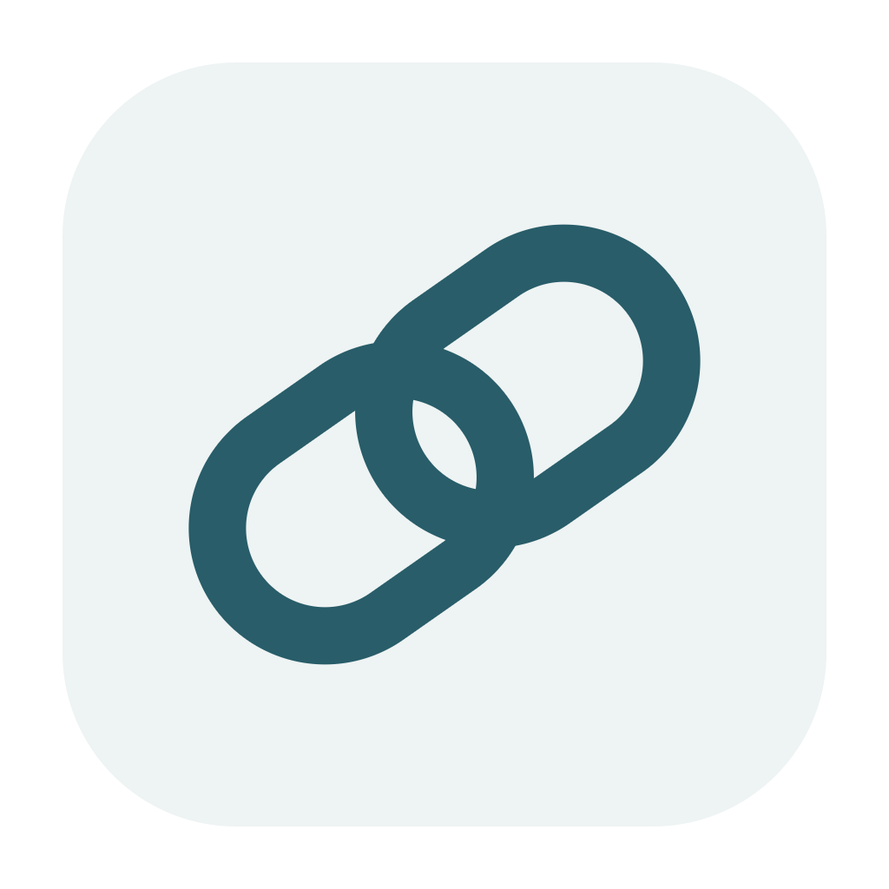
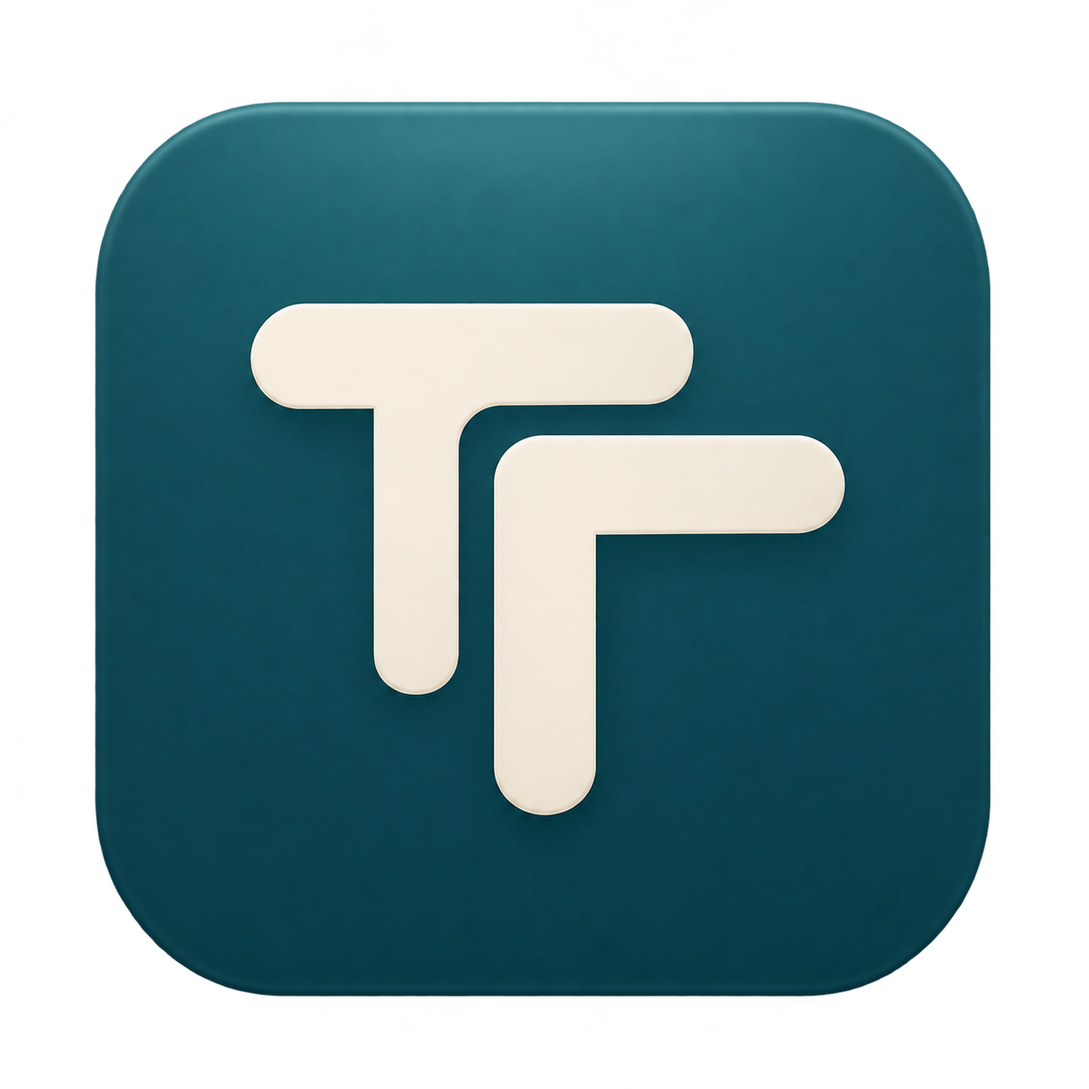
Add Tandem brand identity and resizable preview pane

diff --git a/src/App.tsx b/src/App.tsx
@@ -1,4 +1,6 @@
 import { useEffect, useRef, useState } from 'react';
+import type { CSSProperties } from 'react';
+import { usePanelResize } from './usePanelResize';
 import Markdown from 'react-markdown';
 import remarkGfm from 'remark-gfm';
 import { ArrowUp, ArrowLeft, ArrowRight, Check, ChevronDown, ChevronRight, CircleStop, Code2, Copy, Download, FileCode2, FileText, Folder, FolderOpen, GitCompareArrows, Globe, Link2, LoaderCircle, MessageSquare, PanelRight, Plus, RefreshCw, Search, Settings2, Terminal, Trash2, X } from 'lucide-react';
@@ -7,7 +9,8 @@ const initial: State = { conversations: [], workspace: '', settings: { web: true
 const api = window.tandem;
 const nameOf = (path: string) => path.split('/').filter(Boolean).at(-1) || 'No folder selected';
 const markdown = (text: string) => <Markdown remarkPlugins={[remarkGfm]} components={{ a: props => <a {...props} target="_blank" rel="noreferrer" />, img: () => <span>[Remote image omitted]</span> }}>{text}</Markdown>;
-function Mark({ small = false }: { small?: boolean }) { return <span className={`mark ${small ? 'small' : ''}`} aria-hidden="true"><Link2 /></span>; }
+const brandMark = new URL('../assets/logo.svg', import.meta.url).href;
+function Mark({ small = false }: { small?: boolean }) { return <span className={`mark ${small ? 'small' : ''}`} aria-hidden="true"><img src={brandMark} alt="" /></span>; }
 function StageList({ stages }: { stages: Stage[] }) { return <div className="stages">{stages.map((s, i) => <details key={`${s.provider}-${s.stage}-${i}`}><summary><span className={`stage-icon ${s.status}`}>{s.status === 'running' ? <LoaderCircle className="spin" /> : s.status === 'error' ? <X /> : <Check />}</span><span className="provider">{s.provider === 'claude' ? 'Claude' : 'Codex'}</span><span>{s.stage}</span><ChevronDown /></summary>{s.text && <div className="stage-content prose">{markdown(s.text)}</div>}</details>)}</div>; }
 export default function App() {
  const [state, setState] = useState<State>(initial);
@@ -20,6 +23,7 @@ export default function App() {
  const [connections, setConnections] = useState(false);
  const [error, setError] = useState('');
  const [notice, setNotice] = useState('');
+ const preview = usePanelResize();
  const [panel, setPanel] = useState<'files' | 'changes' | 'report' | 'terminal' | null>(window.innerWidth < 1000 ? null : 'files');
  const [entries, setEntries] = useState<Entry[]>([]);
  const [directory, setDirectory] = useState('.');
@@ -79,7 +83,7 @@ export default function App() {
    <div className="sidebar-bottom"><button onClick={chooseFolder} disabled={busy}><FolderOpen /><span>{state.workspace ? nameOf(state.workspace) : 'Open a workspace'}<small>{state.workspace ? 'Local folder' : 'Files, code & reports'}</small></span><ChevronRight /></button><button onClick={() => setConnections(true)}><Settings2 /><span>Connections</span><span className="connection-count">{activeCount}/2</span></button><div className="local-caption"><span className="dot" />MCP transport · Local history</div></div>
   </aside>
   <header className="topbar"><button className="mobile-menu" aria-label="Toggle conversations" onClick={() => setNavOpen(!navOpen)}><MessageSquare /></button><span>Workspace</span><ChevronRight /><strong>{nameOf(state.workspace)}</strong><div className="top-actions"><button onClick={() => setConnections(true)}><span className={`dot ${activeCount === 2 ? 'connected' : ''}`} />{api ? `${activeCount} agents installed` : 'Browser preview'}</button><button title="Toggle workspace panel" aria-label="Toggle workspace panel" onClick={() => setPanel(panel ? null : 'files')}><PanelRight /></button></div></header>
-  <main className={`sheet ${panel ? 'with-panel' : ''}`}>
+  <main ref={preview.containerRef} className={`sheet ${panel ? 'with-panel' : ''} ${preview.resizing ? 'resizing-panel' : ''}`} style={{ '--preview-width': `${preview.width}px` } as CSSProperties}>
    <section className="conversation"><div className="conversation-heading"><h1>{chat?.title || 'New conversation'}</h1><span>Claude + Codex</span></div>
     <div className="message-scroll">
      {!chat?.messages.length && <div className="welcome"><Mark /><h2>Two perspectives.<br />One place to work.</h2><p>Think with Claude and Codex, then turn the answer into something real.</p><div className="agent-pair"><span><span className="agent-symbol">C</span>Claude</span><Link2 /><span><span className="agent-symbol">⌘</span>Codex</span></div><div className="suggestions">{[{ icon: Code2, title: 'Build something', text: 'Explore this workspace and propose a practical implementation plan for my app.' },{ icon: Search, title: 'Research a question', text: 'Research the latest developments in local AI coding tools. Compare approaches and include source links.' },{ icon: FileText, title: 'Write a report', text: 'Review this workspace and write a clear Markdown report covering its purpose, architecture, and next steps.' }].map(({ icon: Icon, title, text }) => <button key={title} onClick={() => { setPrompt(text); composer.current?.focus(); }}><Icon /><span>{title}</span><ArrowRight /></button>)}</div><p className="welcome-foot">Start with a trusted folder. Your agents work in its context.</p></div>}
@@ -91,7 +95,7 @@ export default function App() {
      <div className="composer-footer"><label><input type="checkbox" checked={state.settings.write} disabled={busy} onChange={e => void updateSetting({ write: e.target.checked })} />Allow workspace changes</label><span>{state.settings.mode === 'deep' ? 'Independent answers → review → revision → synthesis' : 'Independent answers → unified response'}</span></div>
     </div>
    </section>
-   {panel && <aside className="workspace-panel"><div className="panel-tabs">{([{ id: 'files', icon: Folder, label: 'Files' }, { id: 'changes', icon: GitCompareArrows, label: 'Changes' }, { id: 'report', icon: FileText, label: 'Report' }, { id: 'terminal', icon: Terminal, label: 'Terminal' }] as const).map(({ id, icon: Icon, label }) => <button key={id} className={panel === id ? 'active' : ''} title={label} aria-label={label} onClick={() => { setPanel(id); if (id === 'changes') void refreshDiff(); }}><Icon /><span>{label}</span></button>)}</div>
+   {panel && <aside id="workspace-panel" className="workspace-panel"><div className="panel-resizer" {...preview.handleProps}><span /></div><div className="panel-tabs">{([{ id: 'files', icon: Folder, label: 'Files' }, { id: 'changes', icon: GitCompareArrows, label: 'Changes' }, { id: 'report', icon: FileText, label: 'Report' }, { id: 'terminal', icon: Terminal, label: 'Terminal' }] as const).map(({ id, icon: Icon, label }) => <button key={id} className={panel === id ? 'active' : ''} title={label} aria-label={label} onClick={() => { setPanel(id); if (id === 'changes') void refreshDiff(); }}><Icon /><span>{label}</span></button>)}</div>
     {panel === 'files' && <><div className="panel-heading"><span>{file || (directory === '.' ? 'Workspace files' : directory)}</span><button aria-label="Refresh files" disabled={!state.workspace} onClick={() => void loadFiles()}><RefreshCw /></button></div>{!state.workspace ? <div className="panel-empty"><FolderOpen /><h3>Your workspace, connected.</h3><p>Open a folder to browse files, edit code, and inspect what the agents change.</p><button className="secondary" onClick={chooseFolder}>Open folder<ArrowRight /></button></div> : file ? <div className="editor-wrap"><div className="editor-toolbar"><button onClick={() => { if (!dirty || window.confirm('Discard unsaved changes?')) setFile(''); }}><ArrowLeft />Files</button><span>{dirty ? 'Unsaved' : 'Saved'}</span><button disabled={!dirty || busy || toolBusy} onClick={saveFile}>Save</button></div><textarea className="editor" aria-label={`Edit ${file}`} value={editing} spellCheck={false} onChange={e => setEditing(e.target.value)} /></div> : <div className="file-list">{directory !== '.' && <button onClick={() => void loadFiles(directory.split('/').slice(0,-1).join('/') || '.')}><ArrowLeft />Parent folder</button>}{entries.map(entry => <button key={entry.path} onClick={() => void openEntry(entry)}>{entry.directory ? <Folder /> : <FileCode2 />}<span>{entry.name}</span>{entry.directory && <ChevronRight />}</button>)}{!entries.length && <p className="muted">This folder is empty.</p>}<button className="reveal" onClick={() => void api?.reveal()}><FolderOpen />Show in Finder</button></div>}</>}
     {panel === 'changes' && <><div className="panel-heading"><span>Working tree</span><button aria-label="Refresh changes" onClick={refreshDiff}><RefreshCw /></button></div><div className="changes-body">{gitStatus && <pre className="git-status">{gitStatus}</pre>}{diff ? <pre className="diff">{diff.split('\n').map((line,i) => <div key={i} className={line.startsWith('+') ? 'added' : line.startsWith('-') ? 'removed' : line.startsWith('@@') ? 'hunk' : ''}>{line || ' '}</div>)}</pre> : <div className="panel-empty"><GitCompareArrows /><h3>Changes will appear here.</h3><p>Tracked changes are compared with Git HEAD. Untracked files appear in the file status above.</p></div>}</div></>}
     {panel === 'report' && <><div className="panel-heading"><span>Report preview</span><button disabled={!report || !api} onClick={exportPdf}><Download />PDF</button></div>{report ? <div className="report prose">{markdown(report)}</div> : <div className="panel-empty"><FileText /><h3>From answer to artifact.</h3><p>Preview any response as a report, then export a formatted PDF to your Mac.</p></div>}</>}

diff --git a/src/usePanelResize.ts b/src/usePanelResize.ts
@@ -1,0 +1,57 @@
+import { useEffect, useRef, useState } from 'react';
+import type { KeyboardEvent, PointerEvent } from 'react';
+
+const KEY = 'tandem.previewWidth';
+const DEFAULT_WIDTH = 400;
+const clamp = (value: number, min: number, max: number) => Math.min(max, Math.max(min, value));
+
+export function usePanelResize() {
+ const containerRef = useRef<HTMLElement>(null);
+ const [preferredWidth, setPreferredWidth] = useState(() => {
+  try { const saved = Number(localStorage.getItem(KEY)); return Number.isFinite(saved) && saved >= 300 ? saved : DEFAULT_WIDTH; }
+  catch { return DEFAULT_WIDTH; }
+ });
+ const preferredRef = useRef(preferredWidth);
+ const [size, setSize] = useState({ container: 0, viewport: window.innerWidth });
+ const [resizing, setResizing] = useState(false);
+ const drag = useRef<{ x: number; width: number } | null>(null);
+ useEffect(() => {
+  const element = containerRef.current;
+  if (!element) return;
+  const measure = () => setSize({ container: element.clientWidth, viewport: window.innerWidth });
+  const observer = new ResizeObserver(measure);
+  observer.observe(element); window.addEventListener('resize', measure); measure();
+  return () => { observer.disconnect(); window.removeEventListener('resize', measure); };
+ }, []);
+ const max = size.viewport > 1000 ? Math.max(300, size.container - 420) : Math.max(300, size.viewport - 32);
+ const width = Math.round(clamp(preferredWidth, 300, max));
+ const update = (next: number) => { const bounded = Math.round(clamp(next, 300, max)); preferredRef.current = bounded; setPreferredWidth(bounded); };
+ const save = () => { try { localStorage.setItem(KEY, String(preferredRef.current)); } catch { /* Storage may be disabled. Resizing still works. */ } };
+ const finish = () => { if (drag.current) { drag.current = null; setResizing(false); save(); } };
+ const reset = () => { update(DEFAULT_WIDTH); save(); };
+ return {
+  containerRef, width, resizing,
+  handleProps: {
+   role: 'separator', tabIndex: 0,
+   'aria-label': 'Resize preview pane', 'aria-orientation': 'vertical' as const,
+   'aria-valuemin': 300, 'aria-valuemax': Math.round(max), 'aria-valuenow': width,
+   'aria-valuetext': `${width} pixels`, 'aria-controls': 'workspace-panel',
+   title: 'Drag to resize · Double-click to reset · Arrow keys to adjust',
+   onDoubleClick: reset,
+   onPointerDown: (event: PointerEvent<HTMLDivElement>) => {
+    if (event.button !== 0) return;
+    event.preventDefault(); event.currentTarget.focus();
+    event.currentTarget.setPointerCapture(event.pointerId);
+    drag.current = { x: event.clientX, width }; setResizing(true);
+   },
+   onPointerMove: (event: PointerEvent<HTMLDivElement>) => { if (drag.current) update(drag.current.width + drag.current.x - event.clientX); },
+   onPointerUp: (event: PointerEvent<HTMLDivElement>) => { finish(); if (event.currentTarget.hasPointerCapture(event.pointerId)) event.currentTarget.releasePointerCapture(event.pointerId); },
+   onPointerCancel: finish, onLostPointerCapture: finish,
+   onKeyDown: (event: KeyboardEvent<HTMLDivElement>) => {
+    const step = event.shiftKey ? 48 : 16;
+    const next = event.key === 'ArrowLeft' ? width + step : event.key === 'ArrowRight' ? width - step : event.key === 'Home' ? 300 : event.key === 'End' ? max : event.key === 'Enter' ? DEFAULT_WIDTH : null;
+    if (next !== null) { event.preventDefault(); update(next); save(); }
+   }
+  }
+ };
+}

diff --git a/tests/ui/app.spec.ts b/tests/ui/app.spec.ts
@@ -20,3 +20,37 @@ for (const width of [1440,1024,390]) test(`layout ${width}`,async ({page}) => {
  expect(overflow).toBe(false);
  await page.screenshot({path:`test-results/tandem-${width}.png`,fullPage:true});
 });
+
+test('preview drag, keyboard resize, reset and saved width', async ({page}) => {
+ await page.setViewportSize({width:1440,height:900}); await page.goto('/');
+ const handle = page.getByRole('separator',{name:'Resize preview pane'});
+ const pane = page.locator('#workspace-panel');
+ const initial = (await pane.boundingBox())!.width;
+ const box = (await handle.boundingBox())!;
+ await page.mouse.move(box.x+box.width/2,box.y+box.height/2);
+ await page.mouse.down(); await page.mouse.move(box.x-150,box.y+box.height/2,{steps:8}); await page.mouse.up();
+ const expanded = (await pane.boundingBox())!.width;
+ expect(expanded).toBeGreaterThan(initial+140);
+ await page.reload(); await expect(handle).toHaveAttribute('aria-valuenow',String(Math.round(expanded)));
+ await handle.focus(); await page.keyboard.press('ArrowRight');
+ await expect(handle).toHaveAttribute('aria-valuenow',String(Math.round(expanded)-16));
+ await page.keyboard.press('End');
+ expect((await page.locator('.conversation').boundingBox())!.width).toBeGreaterThanOrEqual(419);
+ await handle.dblclick(); await expect(handle).toHaveAttribute('aria-valuenow','400');
+ await page.getByRole('button',{name:'Report',exact:true}).click();
+ await expect(handle).toBeVisible();
+ await page.getByRole('button',{name:'Toggle workspace panel'}).click(); await expect(handle).toHaveCount(0);
+ await page.getByRole('button',{name:'Toggle workspace panel'}).click(); await expect(handle).toHaveAttribute('aria-valuenow','400');
+});
+
+test('preview adapts when the window narrows without discarding preferred width',async({page})=>{
+ await page.setViewportSize({width:1440,height:900}); await page.goto('/');
+ const handle=page.getByRole('separator',{name:'Resize preview pane'});
+ await handle.focus(); await page.keyboard.press('End');
+ const preferred=await handle.getAttribute('aria-valuenow');
+ await page.setViewportSize({width:1024,height:768});
+ expect((await page.locator('.conversation').boundingBox())!.width).toBeGreaterThanOrEqual(419);
+ await page.setViewportSize({width:390,height:844}); await expect(handle).toBeHidden();
+ expect(await page.evaluate(()=>document.documentElement.scrollWidth>innerWidth)).toBe(false);
+ await page.setViewportSize({width:1440,height:900}); await expect(handle).toHaveAttribute('aria-valuenow',preferred!);
+});

diff --git a/src/style.css b/src/style.css
@@ -2,3 +2,17 @@
 
 /* Primary labels stay readable; 11px is reserved for supporting metadata. */
 .search input,.history-empty,.history-row>button:first-child,.section-label,.panel-heading,.panel-tabs button,.panel-empty p,.file-list>button,.secondary,.agent-pair>span{font-size:13px}.mode-control button,.tool-toggle,.topbar button{font-size:12px}
+
+/* The preview keeps its preferred width, clamped to leave room for the chat. */
+.sheet.with-panel{grid-template-columns:minmax(420px,1fr) min(var(--preview-width,400px),calc(100% - 420px))}
+.workspace-panel{position:relative;overflow:visible}
+.panel-resizer{position:absolute;z-index:4;left:-5px;top:0;bottom:0;width:10px;cursor:col-resize;touch-action:none;outline:none;display:flex;align-items:center;justify-content:center}
+.panel-resizer::before{content:"";position:absolute;width:2px;top:0;bottom:0;background:transparent}
+.panel-resizer>span{width:3px;height:36px;border-radius:3px;background:#bdcacc}
+.panel-resizer:hover::before,.panel-resizer:focus-visible::before,.resizing-panel .panel-resizer::before{background:#1b6c80}
+.panel-resizer:hover>span,.panel-resizer:focus-visible>span{background:#1b6c80}
+.resizing-panel,.resizing-panel *{cursor:col-resize!important;user-select:none!important}
+@media(max-width:1000px){.sheet.with-panel{grid-template-columns:minmax(0,1fr)}.workspace-panel{position:absolute;width:var(--preview-width,400px);max-width:calc(100vw - 32px)}}
+@media(max-width:700px){.workspace-panel{width:auto;max-width:none}.panel-resizer{display:none}}
+
+.mark img{display:block;width:44px;height:44px}.mark.small img{width:27px;height:27px}.assistant-label .mark img{width:22px;height:22px}

diff --git a/docs/roadmap.md b/docs/roadmap.md
@@ -1,0 +1,90 @@
+# Tandem: proposed product roadmap
+
+Research date: 26 November 2026. These are recommendations for future development, not implemented features or a delivery commitment. Branding and the resizable preview are shipped separately from this proposal.
+
+Tandem's strongest direction is a workspace where specialist agents produce a reviewable result. The next step should make work easier to inspect and control before increasing the number of agents.
+
+## What comparable open-source projects do well
+
+| Project | Useful pattern | Application to Tandem |
+| --- | --- | --- |
+| [Cline: Plan & Act](https://docs.cline.bot/core-workflows/plan-and-act) | Separates exploration and planning from execution. | A real Plan mode, with an editable implementation plan and explicit transition to Build. |
+| [Cline: checkpoints](https://docs.cline.bot/core-workflows/checkpoints) | Project snapshots and compare/restore controls make changes reversible. | A pre-run baseline and a per-run diff; restore only the files the user selects. |
+| [OpenCode: agents](https://opencode.ai/docs/agents/) | Named agent profiles combine prompts, model preferences, and permissions. | Reusable Planner, Implementer, Reviewer, and Tester profiles with clear capabilities. |
+| [Aider: architect mode](https://aider.chat/docs/usage/modes.html) | Splits solution design from concrete edits using architect and editor roles. | Assign roles deliberately rather than asking every agent to repeat the whole task. |
+| [Conduct](https://github.com/ldlac/conduct) | Runs coding agents in separate Git worktrees and persists workspace state. | Give every parallel writer its own branch, files, run record, and review flow. |
+
+These patterns are described by the projects themselves. The priorities and implementation choices below are Tandem-specific recommendations. They are not claims that extra agents always improve outcomes.
+
+## Three independent controls
+
+Do not overload the current Normal/Deep toggle with every workflow choice.
+
+| Control | Options | Meaning |
+| --- | --- | --- |
+| Work mode | Ask / Plan / Build | What the task is allowed to do. |
+| Agent setup | Solo / Pair / Team | Which agents participate and how roles are assigned. |
+| Review depth | Standard / Deep | Whether to add a bounded critique-and-revision pass. |
+
+Examples: **Plan + Pair + Deep** for architecture; **Build + Solo + Standard** for a small fix; **Build + Team + Deep** for independent implementation tasks that merit a final review.
+
+Plan mode should produce a versioned artifact with scope, assumptions, affected files, ordered tasks, dependencies, and acceptance checks. A user can edit it and choose Build against that plan version. A revised plan must remain visible. Restrict tools and runtime permissions, not just the prompt. Audit the adapters' capabilities first: a read-only filesystem sandbox does not automatically forbid every command or external side effect.
+
+## Recommended order
+
+### 1. Run visibility and Plan mode
+
+Create an explicit run record and show activity from each provider: queued, starting, running, awaiting approval, completed, failed, cancelled, or interrupted. Preserve outcomes after a restart and offer deliberate retry rather than silently replaying writes. Expose output as it arrives where the CLI supports it, without inventing token or cost counters when it does not.
+
+Add the plan artifact and Ask/Plan/Build permissions. Acceptance: a Plan run cannot modify the workspace; the user can inspect and edit its plan before execution; each task has a concrete completion check.
+
+### 2. Reviewable, reversible changes
+
+Capture the starting state, including pre-existing uncommitted edits. Show the diff for this run, not just the repository's entire diff against HEAD. Add selected-file restore, test results, and an explicit Apply action for changes produced in isolated workspaces.
+
+Snapshots must protect the user's unrelated edits and define how untracked files, ignored files, secrets, and large files are treated. A file rollback cannot undo database writes, network requests, or every shell-command side effect. Avoid presenting it as universal undo.
+
+### 3. Role-based agent teams
+
+Start with a small team, for example:
+
+| Agent | Provider | Role | Write access |
+| --- | --- | --- | --- |
+| Planner | Claude | Decompose the request and define acceptance checks. | No |
+| Code scout | Codex | Locate relevant code and constraints. | No |
+| Implementer | Codex | Execute the approved task. | Own isolated workspace |
+| Reviewer | Claude | Review the actual diff and evidence. | No |
+| Integrator | Coordinator | Present results and apply reviewed changes. | Controlled integration only |
+
+Roles should be configurable. Either provider may fill any role if its adapter supports the necessary permissions; this example is not a fixed claim about which provider is better.
+
+### 4. Multiple agents per provider
+
+Yes—support **Claude ×2 + Codex ×2**, and allow other mixes. Each agent needs its own ID, prompt/context, task, process/session, cancellation handle, result, and visible status. The provider is a property of an agent, not its identity.
+
+Begin with parallel read-only investigation. Then add parallel writers in distinct Git worktrees. Do not let two writers share one checkout. Worktrees isolate files and branches, not credentials, databases, ports, or all processes: add setup/cleanup hooks and per-workspace port allocation, and keep sandbox permissions separate.
+
+An example team can investigate UI and backend independently, implement each in its own worktree after agreeing an interface, then hand both diffs to a reviewer. Integrate sequentially and run tests on the combined result. If work overlaps, serialize it or ask for a conflict decision; do not blindly merge competing edits.
+
+Use bounded scheduling: an initial limit of two concurrent agents per provider and four total, configurable round/call limits, task timeouts, queueing, and provider-specific backoff. Multiple processes on one login do not create extra provider quota. More agents can add duplicated work, correlated mistakes, latency, and integration overhead; prefer Solo or Pair for small tasks.
+
+### 5. Context and workflow polish
+
+Add pinned files, explicit attachments, per-project instructions, context summaries, citations that stay linked to sources, named agent presets, and a configurable MCP-server registry. Then improve GitHub issue/PR handoff, signing/notarization, and application updates. Keep external publication and destructive actions explicit.
+
+## Changes needed in the current code
+
+- `electron/main.cjs`: replace the global single `active` task with a run registry and bounded scheduler. Persist runs separately from chat messages.
+- `electron/orchestrator.mjs`: evolve the fixed pipeline into typed tasks with roles, dependencies, and a configurable roster. Preserve the single-writer rule within each workspace.
+- `mcp/server.mjs`: introduce agent IDs, capability discovery, permission profiles, model selection where supported, and structured lifecycle results. Agent and workspace actions must continue to cross MCP.
+- `src/types.ts`: identify events by `runId`, `agentId`, and `stageId`. The current provider-plus-stage key would collide when two Claude agents perform the same stage.
+- UI: a compact team panel should show each agent's assignment, status, output, and diff, plus run-level cancellation and retry controls.
+- Storage: introduce schema versions and a migration path for persisted runs/plans. SQLite is an option when concurrent updates and recovery outgrow the current atomic JSON history.
+
+The local orchestration service owns scheduling; MCP remains the interface to agent and workspace capabilities. MCP by itself does not provide a multi-agent scheduler. Consider asynchronous run tools and progress notifications for long tasks instead of relying on a single very long tool request.
+
+## How to decide whether teams are worth it
+
+Build a small repeatable evaluation set: a bug fix, a contained feature, a cross-layer feature, a refactor, and a research report. Compare Solo, Pair, and Team on tests passed, actual defects, manual corrections, elapsed time, provider calls, and merge conflicts. Use measured usage when available; label estimates clearly. Ship the smallest agent setup that reliably improves the result.
+
+**Recommended next milestone:** explicit Plan mode, observable runs, and per-run change review. Follow that with isolated team execution. An agent-count slider alone would add complexity before adding enough control.

diff --git a/README.md b/README.md
@@ -1,6 +1,8 @@
 <div align="center">
-  <img src="assets/icon.svg" width="96" alt="Tandem icon" />
-  <h1>Tandem</h1>
+  <picture>
+    <source media="(prefers-color-scheme: dark)" srcset="assets/wordmark-dark.svg" />
+    <img src="assets/wordmark.svg" width="360" alt="Tandem" />
+  </picture>
   <p><strong>Claude and Codex. One local workspace.</strong></p>
   <p>A macOS agent chat app that brings two perspectives together through MCP.</p>
   <p><a href="#quick-start">Quick start</a> · <a href="#how-the-modes-work">Reasoning modes</a> · <a href="#architecture">Architecture</a> · <a href="CONTRIBUTING.md">Contributing</a></p>
@@ -22,7 +24,7 @@ The app runs on your Mac, keeps its own chat history locally, and connects to th
 - **Work in a folder.** Browse files, edit text, inspect Git diffs, and let Codex implement requested changes.
 - **Run local commands.** Review the exact command in a native confirmation dialog before execution.
 - **Search the web.** Enable the agents' native web-search capabilities through their MCP adapters.
-- **Create reports.** Preview Markdown responses and export formatted A4 PDFs.
+- **Create reports.** Preview Markdown responses and export formatted A4 PDFs. Drag the preview divider to resize the pane; its width is remembered.
 - **Pick up where you left off.** Search and reopen conversations stored on your Mac.
 
 ## Quick start
@@ -103,6 +105,8 @@ Independent answers run concurrently. The remaining phases run in order. Synthes
 The file tools resolve paths and reject traversal or symlinks outside the selected workspace. The editor also protects `.git`, `.aws`, and `.ssh` subdirectories from direct saves.
 
 Explicit Terminal commands run with your Mac user permissions after confirmation. The selected folder is their working directory, **not an operating-system sandbox**. Codex's agent execution pass uses the CLI's workspace sandbox; it does not use a sandbox-bypass flag.
+
+Resize the workspace/preview pane by dragging its left divider. Double-click it to reset; focus it and use **Left/Right arrows** to adjust, **Shift** for larger steps, **Home/End** for the limits, or **Enter** to reset. The chat retains a minimum usable width. On phone-sized windows, the pane fills the screen.
 
 Keyboard shortcuts: **⌘N** for a new conversation, **Enter** to send, and **Shift+Enter** for a newline.
 
@@ -227,6 +231,12 @@ Native smoke tests use temporary histories and workspaces. CI runs the build and
 - Reports export to PDF; arbitrary PDF attachments are not parsed.
 - Deep-mode orchestration is covered by deterministic tests; live deep discussions, web-search results, and agent-written code changes were not separately exercised in the initial verification.
 - Public distribution still needs signing, notarization, and further release hardening. Windows and Linux are not supported by this version.
+
+## Roadmap
+
+[Read the proposed roadmap](docs/roadmap.md): explicit plan mode, reversible changes, role-based teams, isolated parallel workspaces, and better run visibility. These are proposals, not features available in this release.
+
+See [the brand assets and usage notes](docs/brand.md) for the Tandem logo and Mac icon.
 
 ## Contributing
 

diff --git a/docs/brand.md b/docs/brand.md
@@ -1,0 +1,22 @@
+# Tandem brand assets
+
+The paired-T mark represents two distinct contributors moving in the same direction. It replaces the generic chain-link symbol. Use the flat vector mark in interface chrome; use the dimensional teal tile in the macOS Dock and app bundle.
+
+| Asset | Use |
+| --- | --- |
+| `assets/logo.svg` | Scalable teal symbol on light backgrounds. |
+| `assets/logo-light.svg` | Ivory symbol on dark backgrounds. |
+| `assets/wordmark.svg` | Horizontal Tandem wordmark on light backgrounds. |
+| `assets/wordmark-dark.svg` | Horizontal wordmark on dark backgrounds. |
+| `assets/icon.png` | Generated dimensional macOS app icon; transparent outside the tile. |
+| `assets/icon.svg` | Editable flat app-icon variant. |
+
+Palette: petrol teal `#174B56`, ivory `#F7F3E9`, and neutral interface surfaces. Keep the mark upright, preserve its proportions and the gap between the two parts, and allow clear space around it. Do not rotate it as the old chain-link mark was rotated. Avoid placing the wordmark inside the Dock icon.
+
+The interface and README wordmarks are editable SVG assets. The macOS PNG was created with the built-in image-generation tool and copied into this repository; the vector assets are an optically simplified companion to that image. No paid image API integration or API key was used. `node scripts/icon.mjs` exports the flat SVG to `assets/icon-flat.png` without overwriting the generated Mac icon. Electron Builder creates the native `.icns` resource from `assets/icon.png` during packaging.
+
+## Image-generation prompt
+
+> Create one finished macOS app icon for Tandem, an open-source local workspace where Claude and Codex collaborate. Production app icon, square 1024x1024 composition, real transparent background outside a single softly rounded square tile inset about 9 percent on each side, no cast shadow outside tile. Tile deep petrol teal #174B56 with extremely restrained satin dimensional edge and subtle soft top lighting, elegant Apple desktop icon craft. Centered bold ivory-white abstract capital T monogram built from exactly TWO separate equal-weight rounded geometric ribbons: each ribbon has a horizontal top arm and a vertical stem, forming two interlocking/offset T-like forms that read as a single paired T. Clear open negative space dividing the two ribbons. Geometric, balanced, instantly legible at 32px, large mark occupies 58 percent tile width and height. Slight warm ivory surface, very subtle bevel on glyph, no metal chrome, no glass, no rainbow, no neon, no glow, no chain links, no infinity symbol, no circuit boards, no stars, no robot. No text, no wordmark, no letters outside the monogram, no mockup, no scene, no grid of options. One beautiful usable app icon.
+
+The generated master was retained at its returned resolution. The brand assets are included under the repository's MIT license; provider names and third-party marks are not part of this identity.

diff --git a/docs/verification.md b/docs/verification.md
@@ -19,3 +19,11 @@ The build is pinned to Electron 40.10.2, the compatible runtime cached on this M
 ## Tandem rename
 
 The renamed build passes 12 backend tests, including two checks for preserving and importing NexusLink history without overwriting existing Tandem data. The packaged Tandem app passes native startup, name/title checks, MCP connection, CLI discovery, chat persistence, and PDF export checks. The README screenshot was captured from this packaged build with isolated test history. The original NexusLink app bundle is retained; Tandem builds into `release/tandem/`.
+
+## Brand identity and adjustable preview
+
+The paired-T logo is used in the interface and in light/dark README wordmarks. The generated transparent PNG is packaged as the app's `icon.icns`; the editable flat SVG is also included. The identity was reviewed at full and small sizes.
+
+All six browser checks pass, including pointer dragging, keyboard resizing, saved width, reset, collapse/reopen, and viewport changes. CSS enforces the chat's minimum width even before resize observers update. The packaged Mac app also passes logo loading, keyboard resizing/reset, MCP startup, chat persistence and PDF export checks. The README screenshot is captured from the packaged app using isolated test history.
+
+The roadmap is research and a proposal only; no plan mode or additional agent-team execution was enabled in this change.
